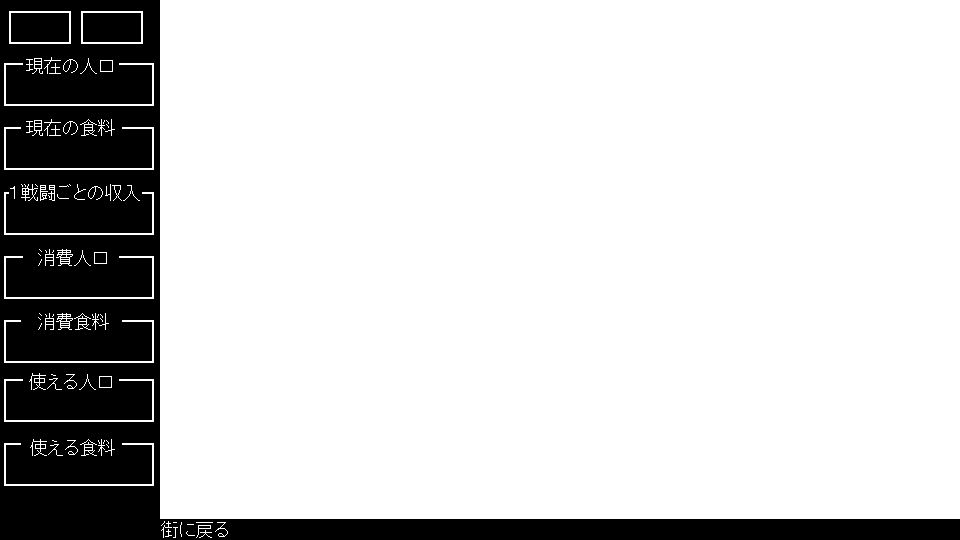
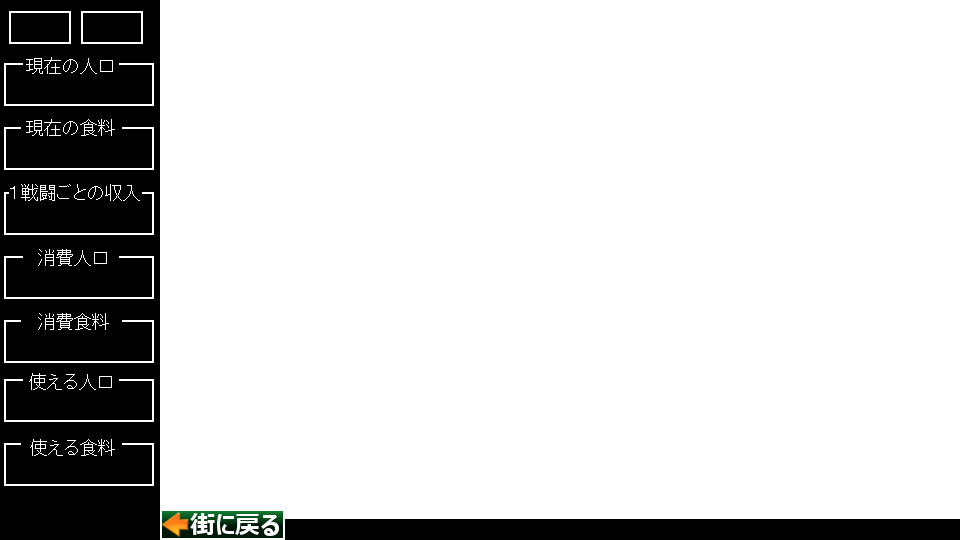
街に戻るボタンを目立たせた

Changed region(s): [[0.1562, 0.9481, 0.3125, 1.0]]

diff --git a/scripts/Scene_Creation.rb b/scripts/Scene_Creation.rb
@@ -50,7 +50,7 @@ class Scene_Creation < Scene_Base
     @button_hitbox["shop"]        = [13,  167,  52, 206]
     @button_hitbox["food_shop"]   = [13,  219,  52, 258]
     @button_hitbox["mansion"]     = [13,  270,  52, 309]
-    @button_hitbox["back"]        = [160, 519, 229, 539]
+    @button_hitbox["back"]        = [160, 509, 284, 539]
     @button_hitbox["install"]     = [9,    11,  70,  43]
     @button_hitbox["info"]        = [81,   11, 142,  43]
     @button_hitbox["map"]         = [160,   0, 959, 518]
@@ -130,6 +130,25 @@ class Scene_Creation < Scene_Base
   
   # 画面の描画
   def draw()
+        # マップの描画
+    for x in 0..19 do
+      for y in 0..12 do
+        Window.draw(D_BEGIN_X + (x*40), D_BEGIN_Y + (y*40), @map_chip[0])
+        case $player.town[x][y]
+        when FARMER
+          Window.draw(D_BEGIN_X + (x*40), D_BEGIN_Y + (y*40), @map_chip[1])
+        when HOUSE
+          Window.draw(D_BEGIN_X + (x*40), D_BEGIN_Y + (y*40), @map_chip[2])
+        when SHOP
+          Window.draw(D_BEGIN_X + (x*40), D_BEGIN_Y + (y*40), @map_chip[3])
+        when FOOD_SHOP
+          Window.draw(D_BEGIN_X + (x*40), D_BEGIN_Y + (y*40), @map_chip[4])
+        when MANSION
+          Window.draw(D_BEGIN_X + (x*40), D_BEGIN_Y + (y*40), @map_chip[5])
+        end
+      end
+    end
+    
     # フレームの描画
     if @menu_state == 0 then
       Window.draw(0, 0, @install_frame)
@@ -168,25 +187,6 @@ class Scene_Creation < Scene_Base
       Window.draw_font(10, 393, sprintf("% 15d", @surplus_population), @system_font)
       # 使える食料
       Window.draw_font(10, 461, sprintf("% 15d", @surplus_food), @system_font)
-    end
-    
-    # マップの描画
-    for x in 0..19 do
-      for y in 0..12 do
-        Window.draw(D_BEGIN_X + (x*40), D_BEGIN_Y + (y*40), @map_chip[0])
-        case $player.town[x][y]
-        when FARMER
-          Window.draw(D_BEGIN_X + (x*40), D_BEGIN_Y + (y*40), @map_chip[1])
-        when HOUSE
-          Window.draw(D_BEGIN_X + (x*40), D_BEGIN_Y + (y*40), @map_chip[2])
-        when SHOP
-          Window.draw(D_BEGIN_X + (x*40), D_BEGIN_Y + (y*40), @map_chip[3])
-        when FOOD_SHOP
-          Window.draw(D_BEGIN_X + (x*40), D_BEGIN_Y + (y*40), @map_chip[4])
-        when MANSION
-          Window.draw(D_BEGIN_X + (x*40), D_BEGIN_Y + (y*40), @map_chip[5])
-        end
-      end
     end
   end
   
